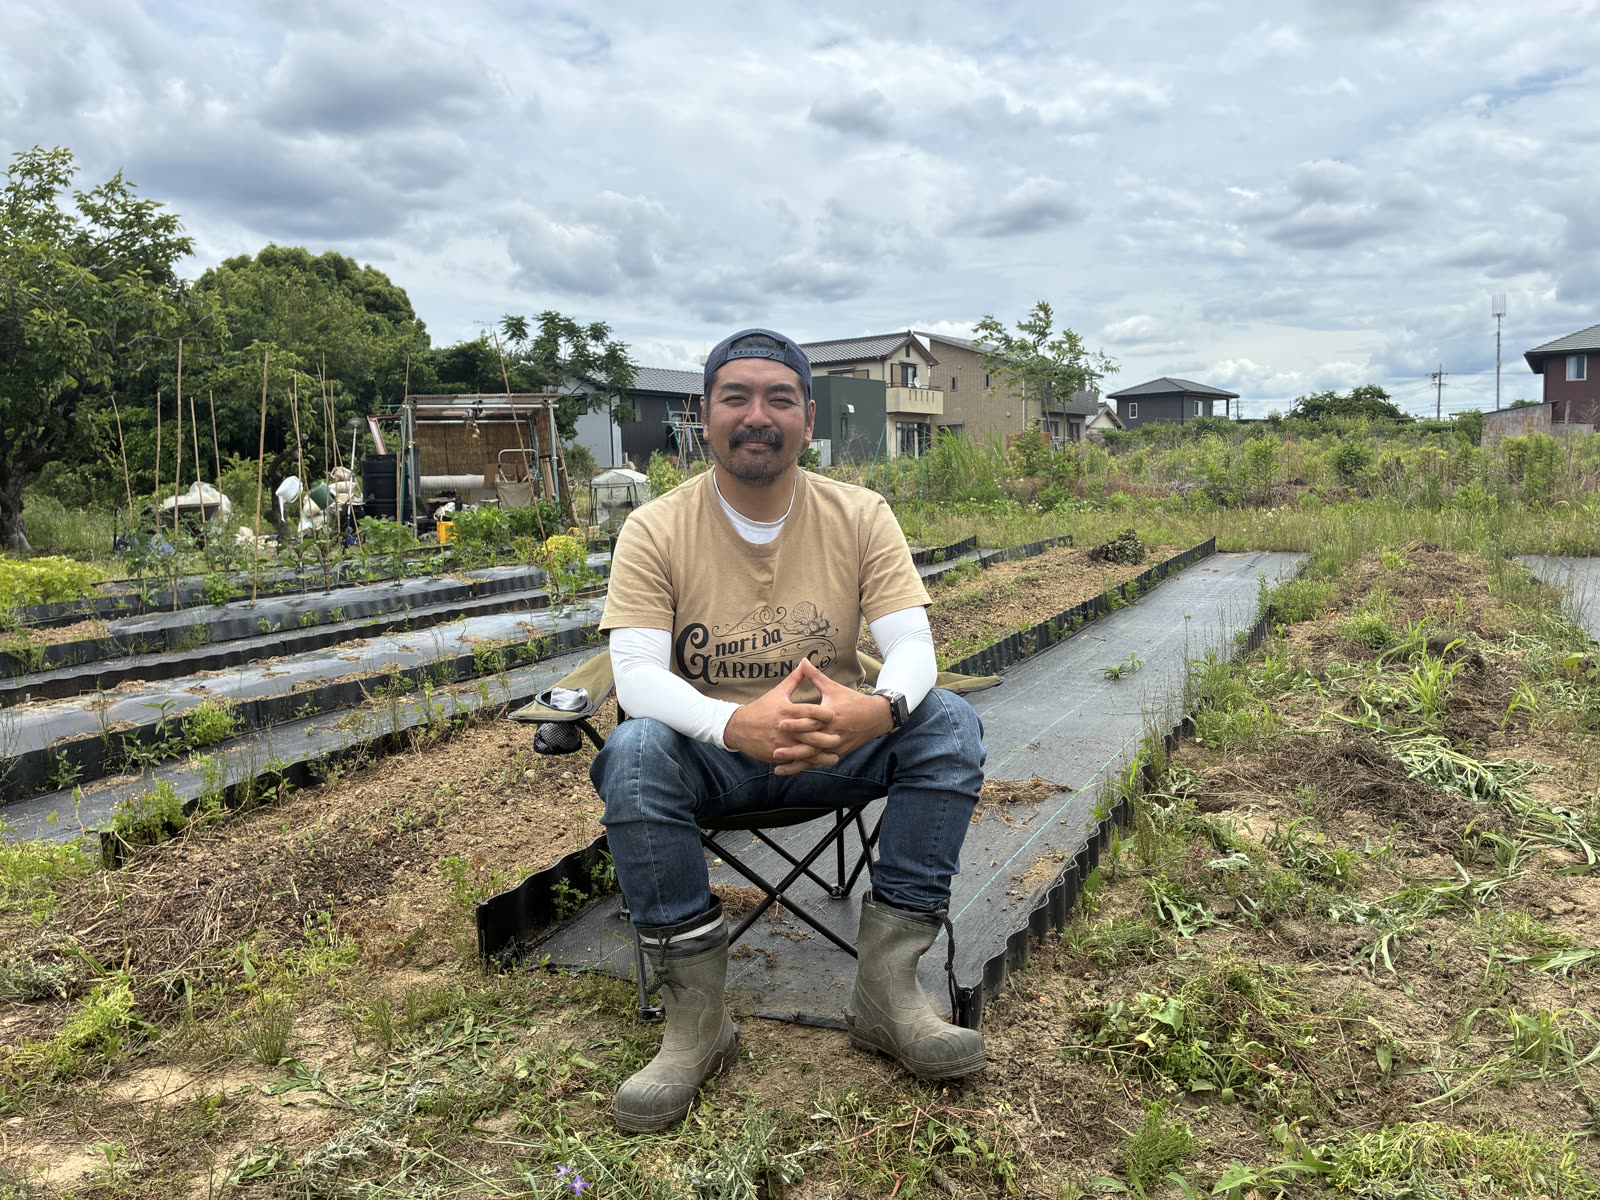
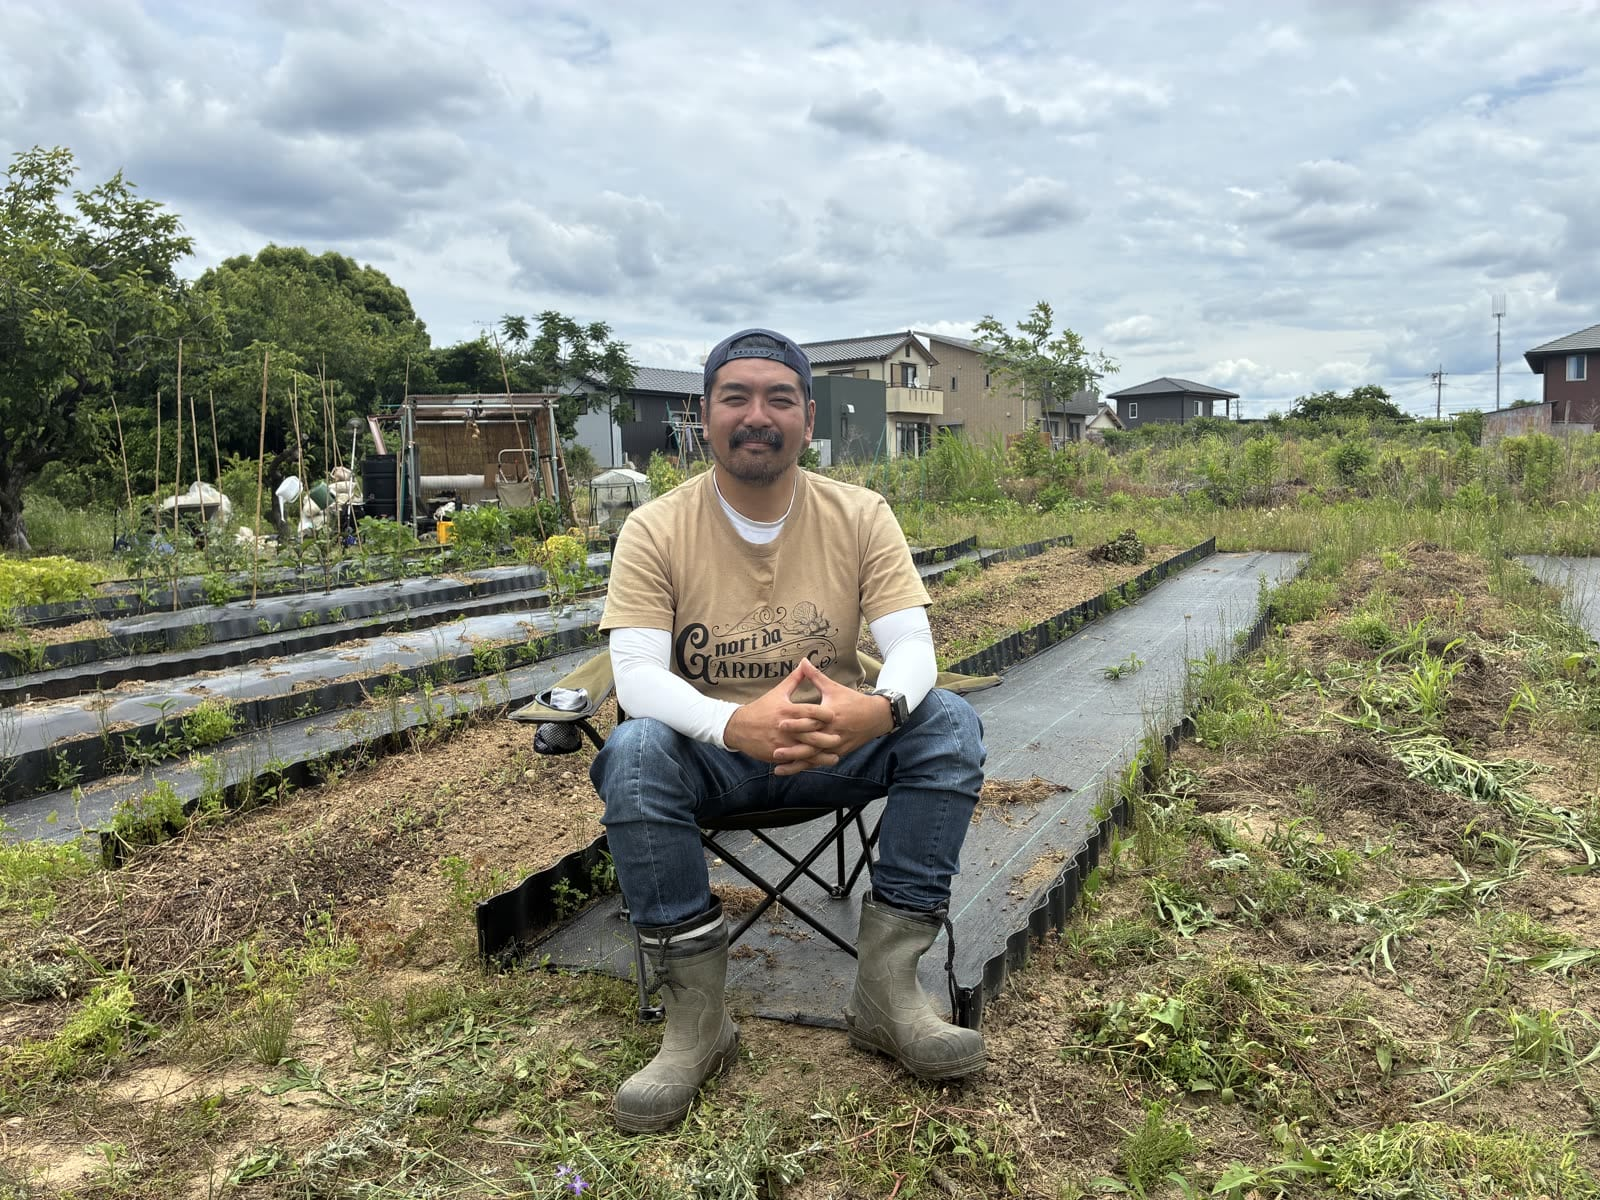
perf: 大きすぎる画像を縮小し、Google Fonts を head から読み込む
- public/images の 500KB 超の JPEG 19枚を長辺2560px・画質82に縮小（ファイル名・形式・向き・ICCプロファイルは維持）。画像全体 107MB → 15MB
- Google Fonts を globals.css の @import から layout の <link>（preconnect 付き）に移し、CSS 読み込み完了待ちをなくす

diff --git a/src/app/layout.tsx b/src/app/layout.tsx
@@ -108,6 +108,13 @@ export default function RootLayout({
   return (
     <html lang="ja">
       <head>
+        {/* CSS 内の @import だとサイトの CSS を読み終えるまでフォントの取得が始まらないため、head から直接読み込む */}
+        <link rel="preconnect" href="https://fonts.googleapis.com" />
+        <link rel="preconnect" href="https://fonts.gstatic.com" crossOrigin="anonymous" />
+        <link
+          rel="stylesheet"
+          href="https://fonts.googleapis.com/css2?family=Noto+Sans+JP:wght@400;500;600;700&display=swap"
+        />
         <script
           type="application/ld+json"
           dangerouslySetInnerHTML={{ __html: JSON.stringify(jsonLd) }}

diff --git a/src/app/globals.css b/src/app/globals.css
@@ -1,4 +1,3 @@
-@import url('https://fonts.googleapis.com/css2?family=Noto+Sans+JP:wght@400;500;600;700&display=swap');
 @import "tailwindcss";
 
 @theme {
